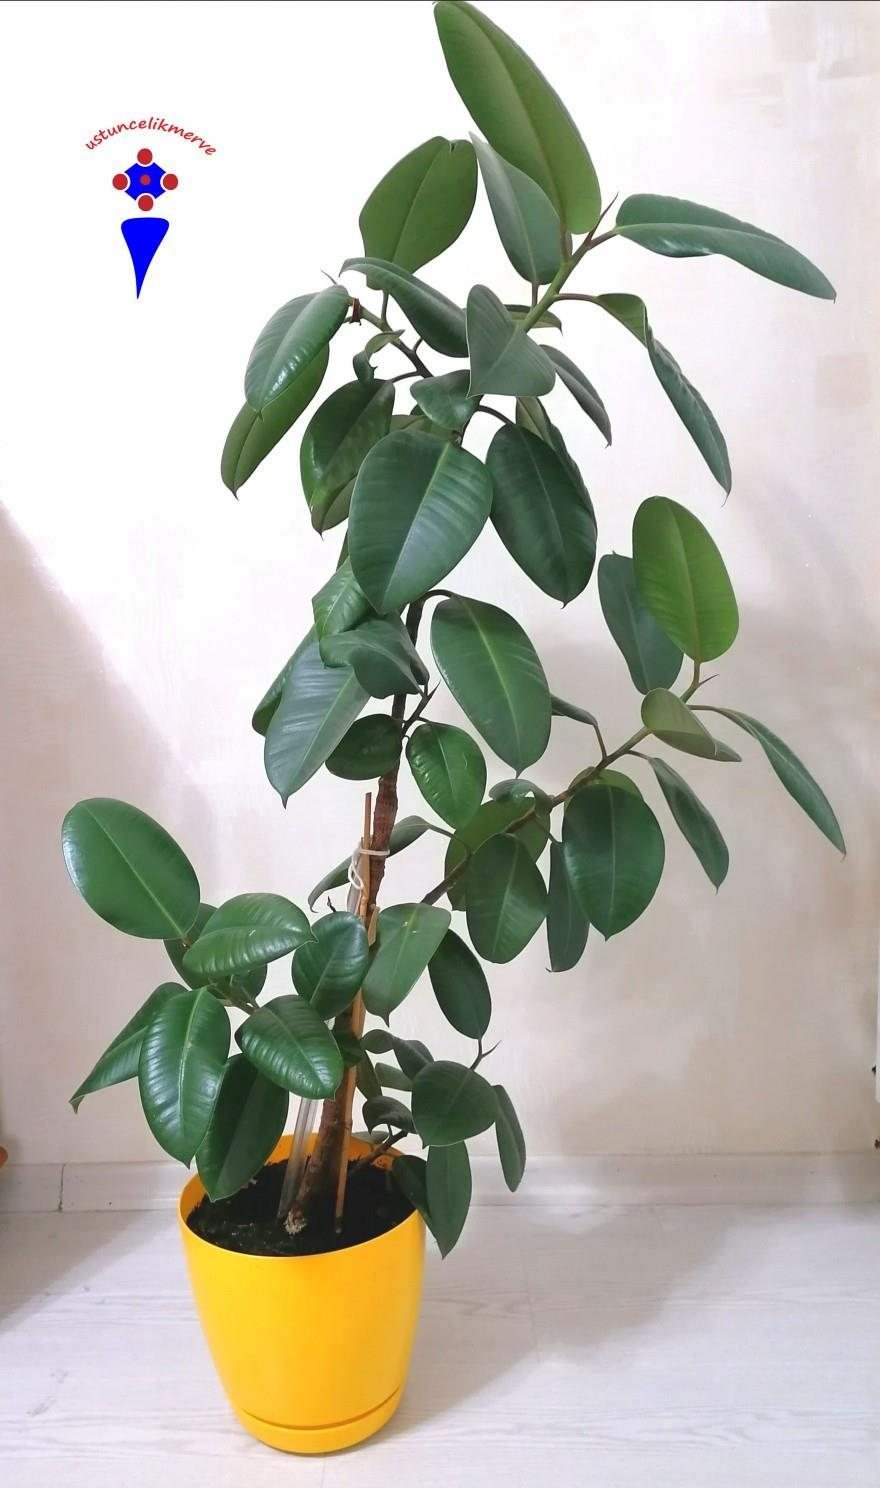
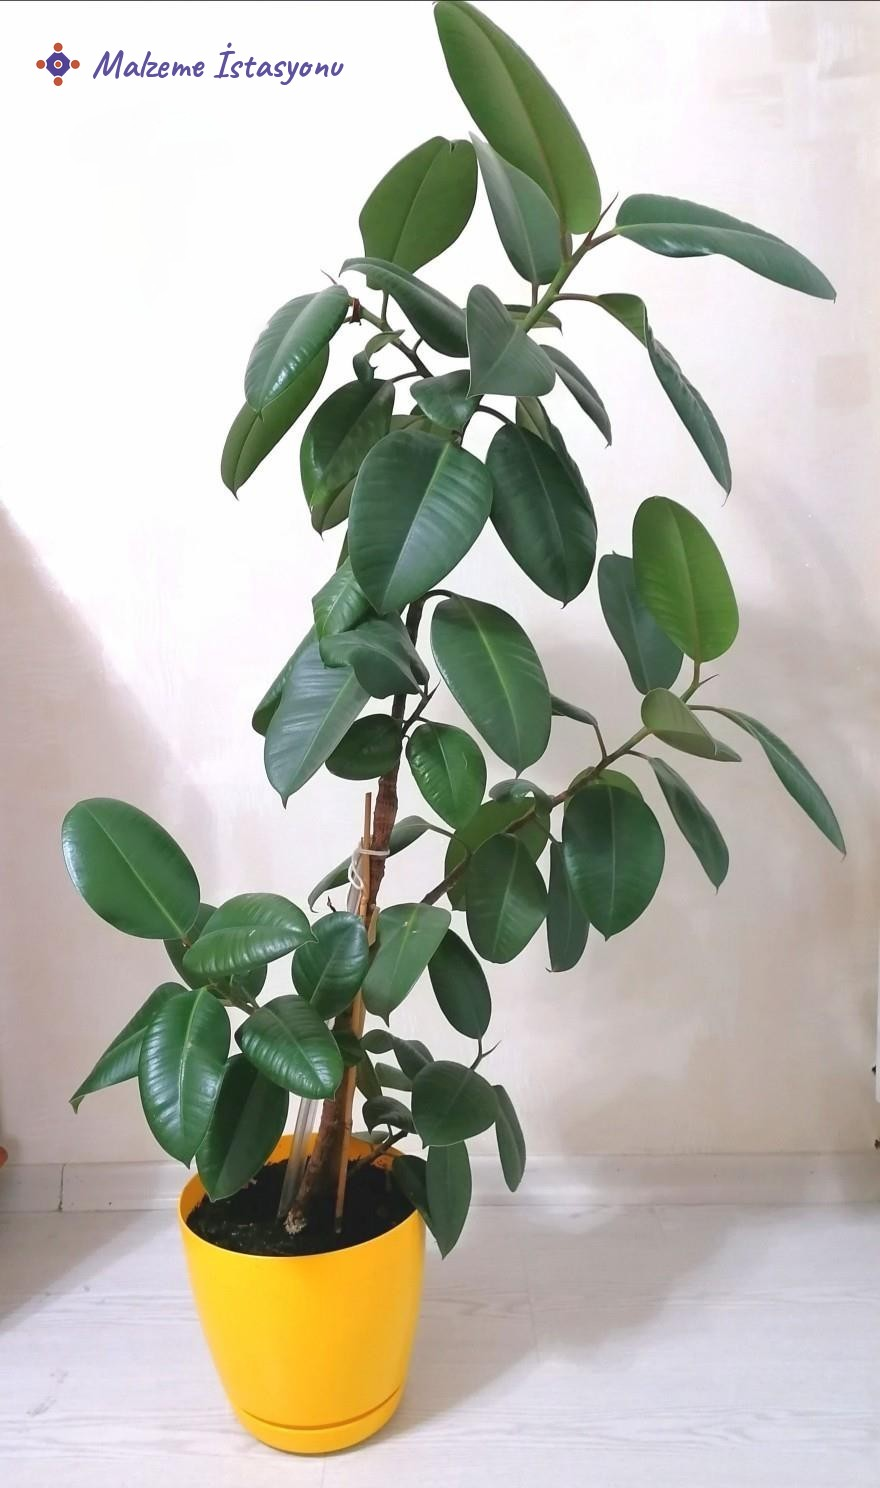
Add files via upload

Changed region(s): [[0.0307, 0.0309, 0.3989, 0.2164]]

diff --git a/content/tr/yazilar/golbol-topu/index.md b/content/tr/yazilar/golbol-topu/index.md
@@ -38,7 +38,7 @@ Malzememin, sert saha zeminine çarpma anlarındaki darbelere karşı dayanımı
 
 <figure style="max-width:360px;margin-left:auto;margin-right:auto">
   <img src="kaucuk-bitkisi.jpg" alt="Sarı saksıda, parlak koyu yeşil yapraklı bir kauçuk bitkisi (Ficus elastica).">
-  <figcaption>Oda arkadaşım olan kauçuk bitkisi.</figcaption>
+  <figcaption>Oda arkadaşım olan kauçuk bitkisi (<em>Ficus elastica</em>). Bir zamanlar ondan da kauçuk elde edilse de, bugün kullandığımız doğal kauçuğun neredeyse tamamının Brezilya kauçuk ağacının (<em>Hevea brasiliensis</em>) özsuyundan geldiğini belirtmekte fayda var.</figcaption>
 </figure>
 
 Golbolun bu mavi topu, malzemelerin hayata dokunuşunun örneklerinden yalnızca biri. Daha nicelerini konuşmak için malzemelere kulak verelim!
